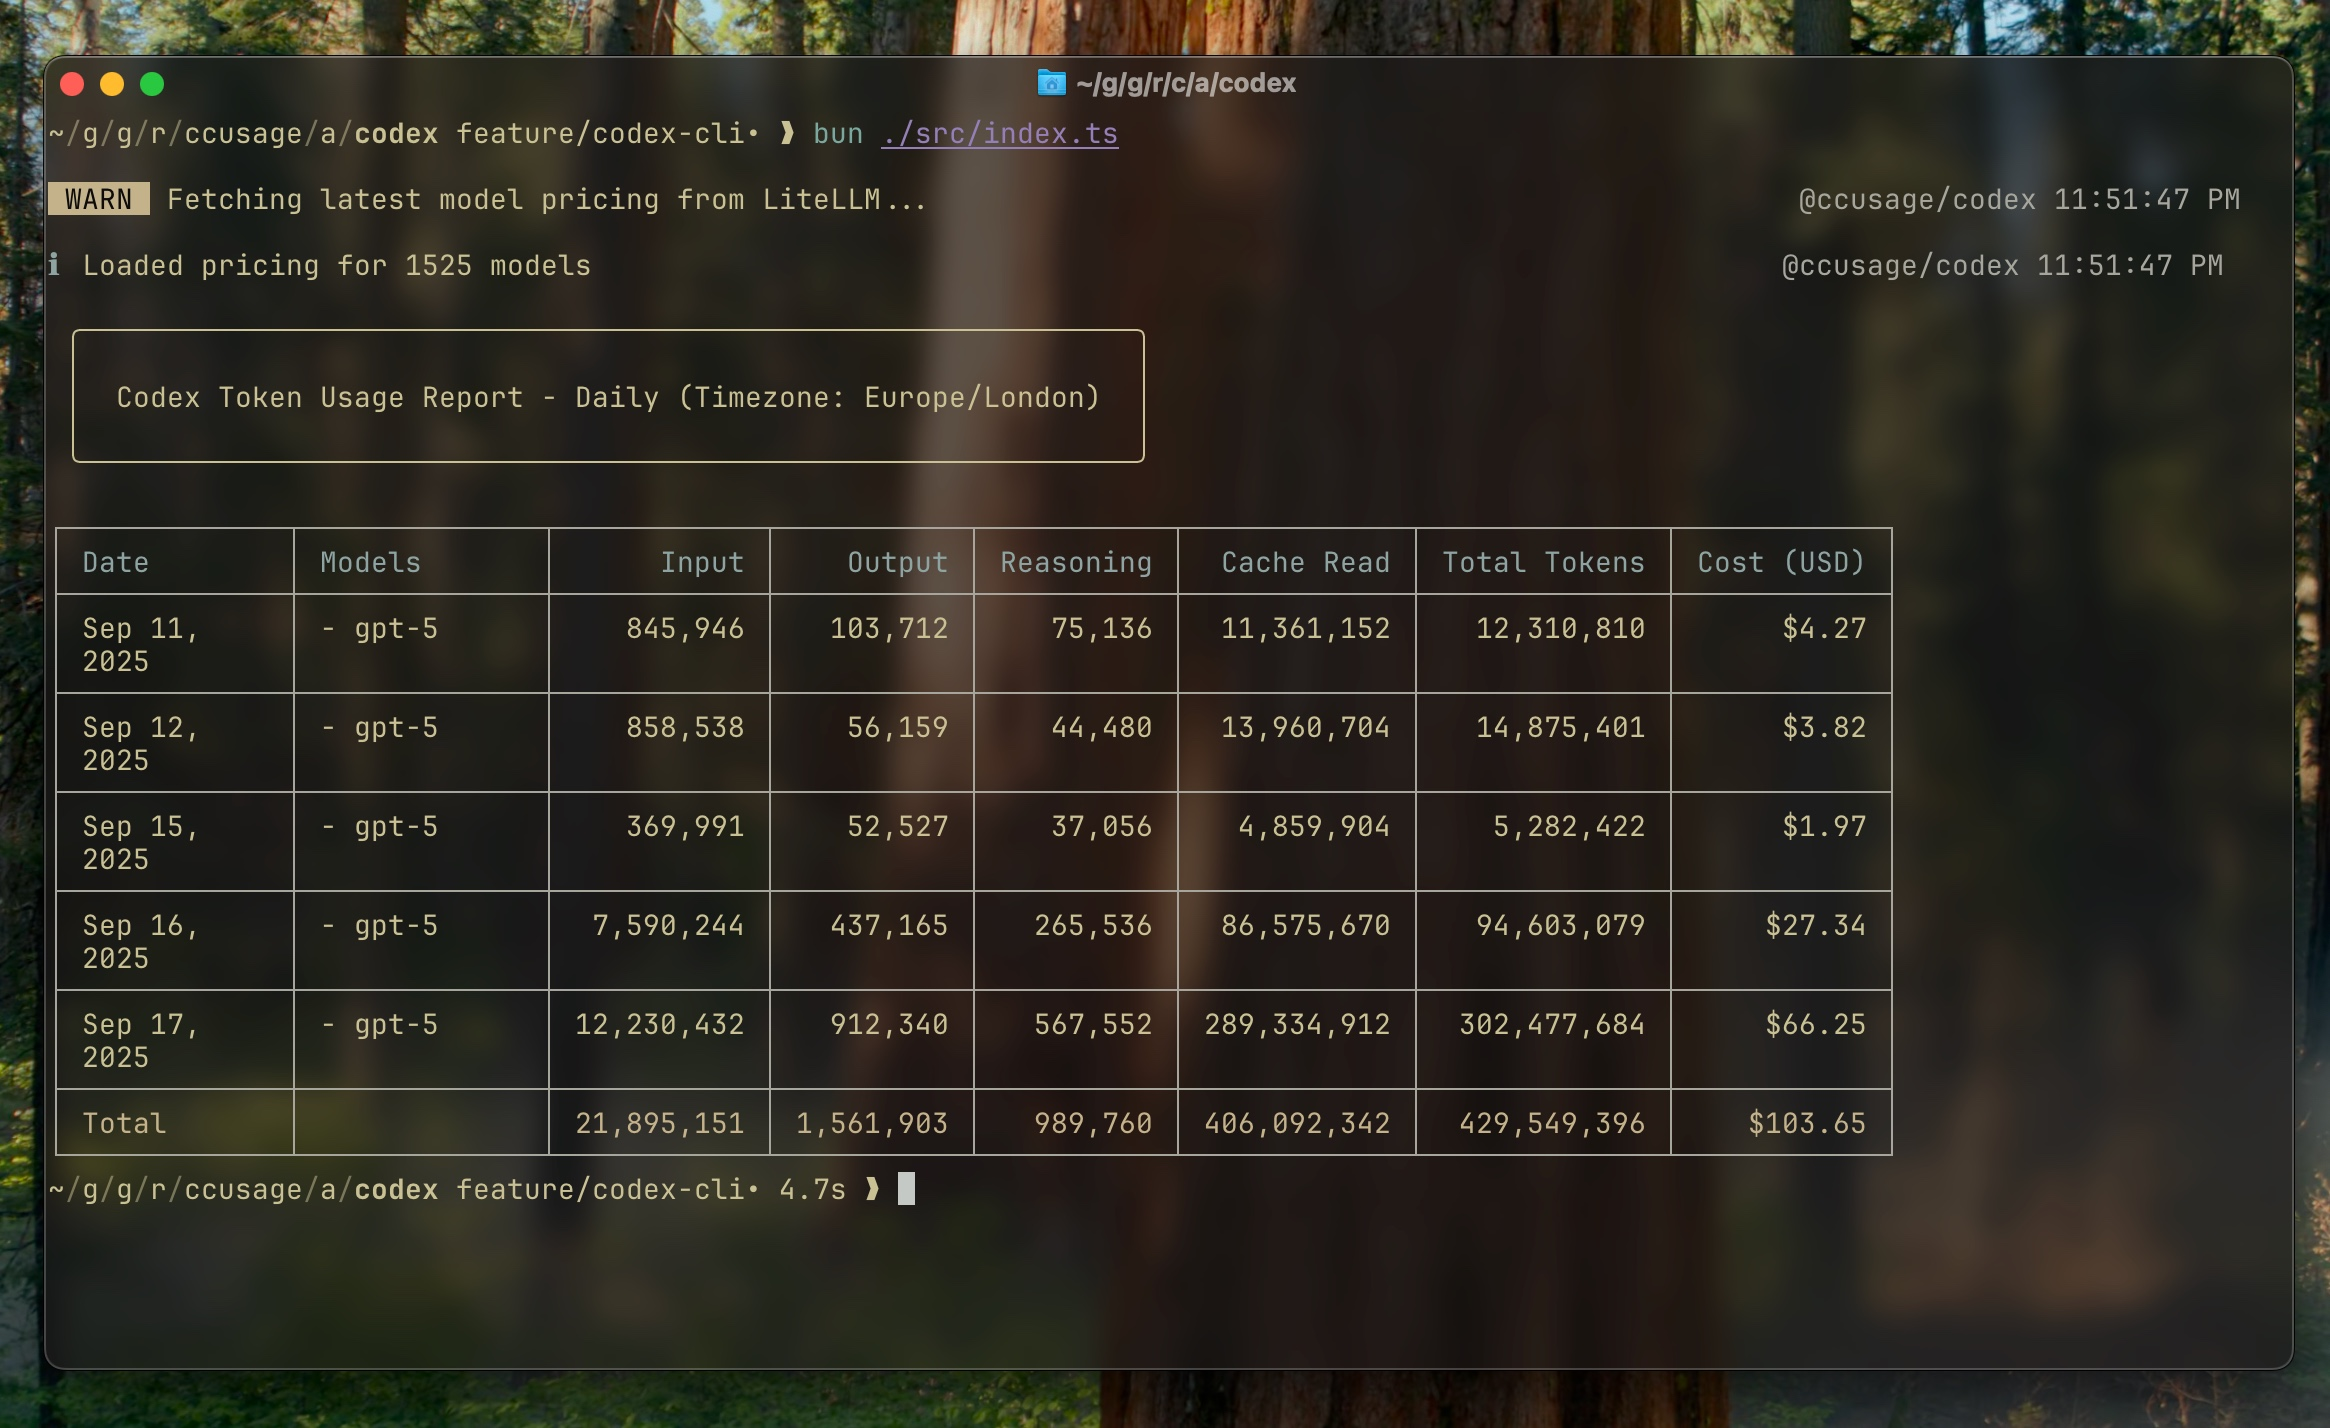
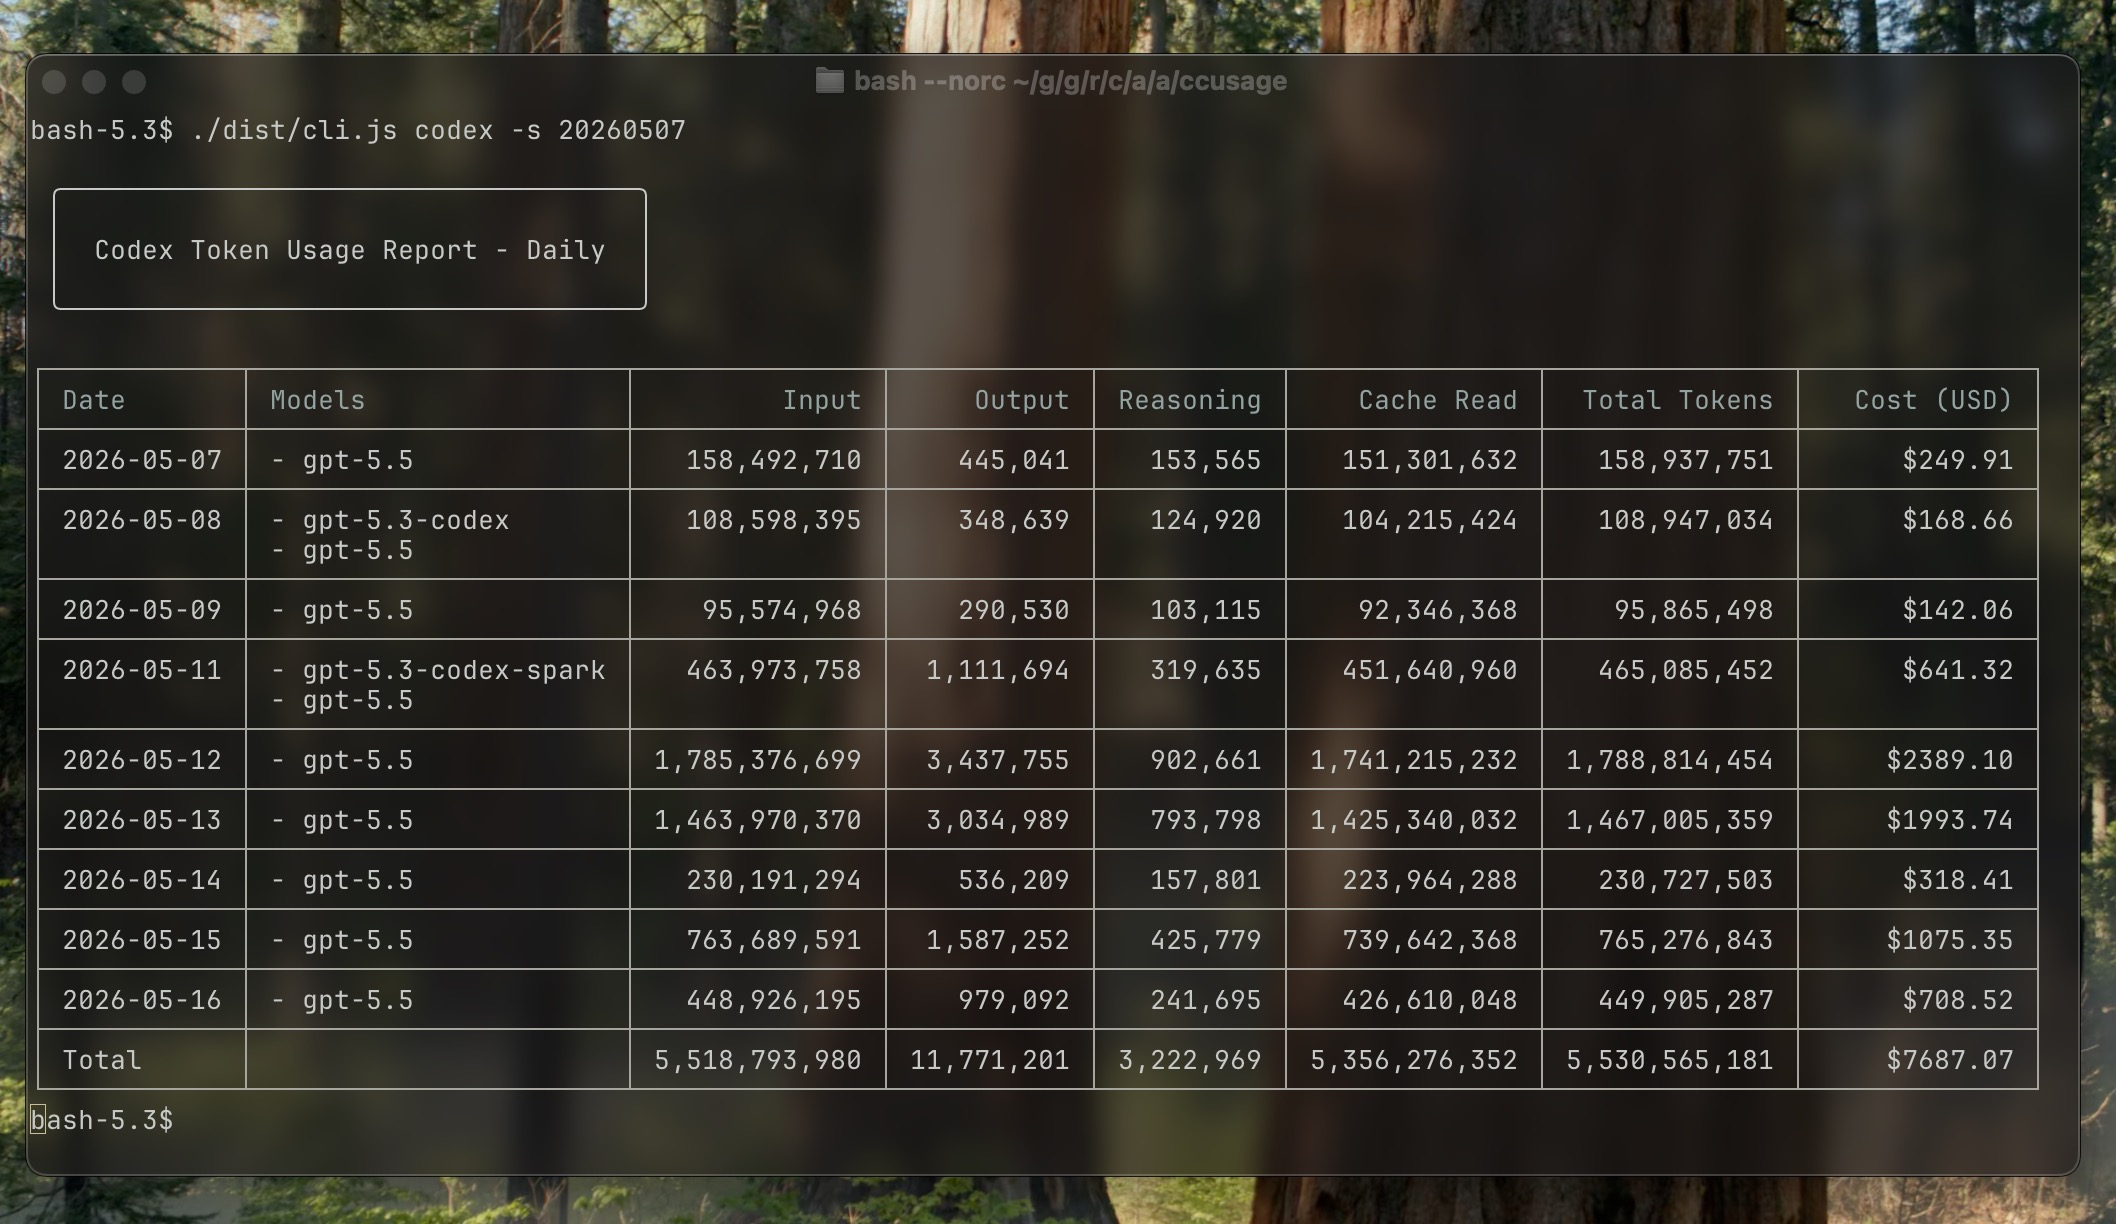
docs: refresh Codex report screenshots
Replace the Codex daily screenshot with the current unified command output and add a separate Codex monthly screenshot.

This keeps the Codex overview and monthly guide aligned with the current ccusage codex command surface.

Changed region(s): [[0.0, 0.0, 1.0, 1.0], [0.7798, 0.1863, 0.8422, 0.2484], [0.5302, 0.1552, 0.5614, 0.2173]]

diff --git a/docs/guide/codex/monthly.md b/docs/guide/codex/monthly.md
@@ -1,6 +1,6 @@
 # Codex Monthly Report (Beta)
 
-![Codex CLI monthly report](/codex-cli.jpeg)
+![Codex CLI monthly report](/codex-cli-monthly.jpeg)
 
 The `monthly` command mirrors ccusage's monthly report while operating on Codex CLI session logs.
 